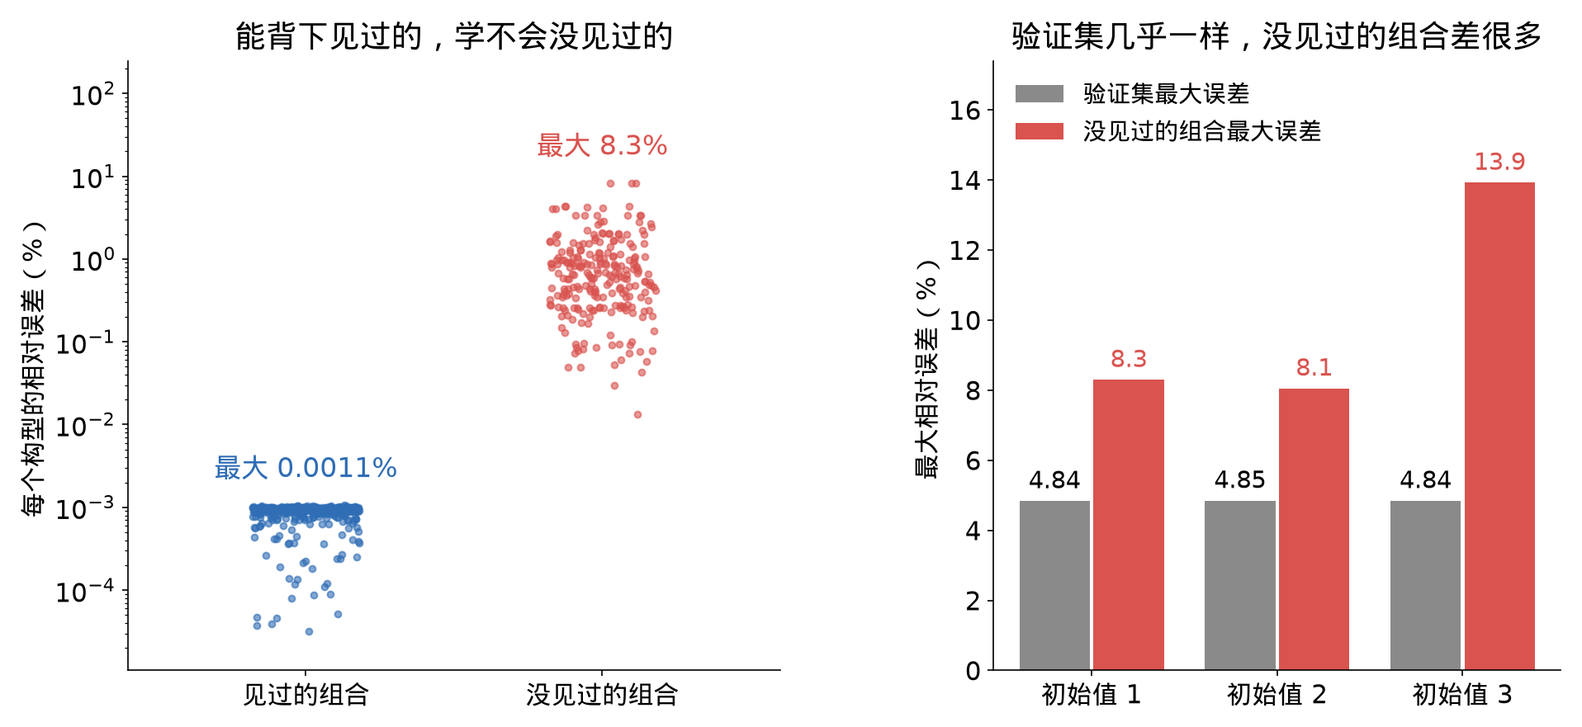
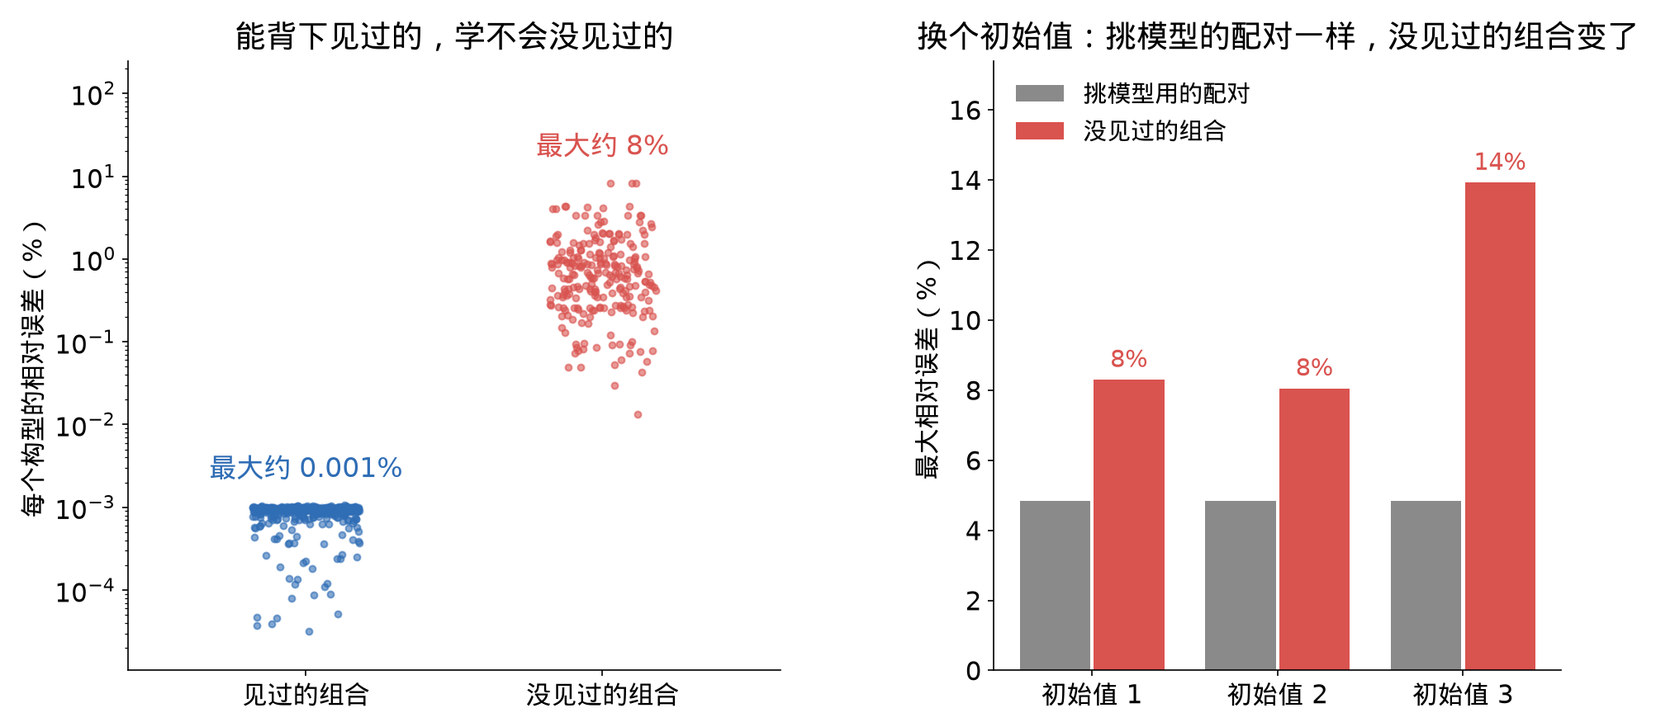
preview/meeting: v2 round 2 (user decisions; computation details trimmed; read-only preview; live week3_4.html and notes unchanged; from meeting-draft 75777ad)

diff --git a/preview/meeting/week3_4.html b/preview/meeting/week3_4.html
@@ -241,7 +241,7 @@ html.annot-on #annot-capture { display: block; }
 }
 </style>
 <script>window.NIPC_SNAPSHOT = {"format":"nipc-notes","version":1,"page":"week3_4.html","path":"/Neural-IPC-web/week3_4.html","colWidth":920,"strokes":[],"tombstones":{}};</script>
-<script>window.NIPC_PAGE = "41b1b8290b05";</script>
+<script>window.NIPC_PAGE = "e5ca66c82fb4";</script>
 <script>window.MathJax = {tex: {inlineMath: [["\\(", "\\)"]], displayMath: [["\\[", "\\]"]]}, svg: {fontCache: "global"}};</script>
 <script src="https://cdn.jsdelivr.net/npm/mathjax@3.2.2/es5/tex-svg.js" async></script>
 <a class="skip" href="#content">跳转到正文</a><div id="progress" aria-hidden="true"></div>
@@ -279,7 +279,7 @@ html.annot-on #annot-capture { display: block; }
 <p>\(\Phi z\) 是粗模型给出的形状，\(\Psi w\) 是叠加在上面的局部变形，\(\Pi\) 是弹性能，\(\min_w\) 在不穿透的条件下取。意思是：粗状态固定后，物体自己找最省能量的凹法避开穿透，多出来的弹性能就是 \(U_c\)；接触力是它对位置的导数。</p>
 <figure style="margin:12px 0"><img src="assets/images/w34_fig01_collision_energy.png" width="2501" height="991" style="width:1060px;max-width:100%;height:auto" alt="左边是粗模型：形状由 \(\Phi z\) 给出、不会变，球和块碰上以后直接互相穿进去，红色就是穿进去的那块。右边是真实物体：块在接触处局部凹下去（凹陷 \(\Psi w\)）把球让开，灰色虚线是原来的表面，蓝色凹陷里存的弹性能就是要学的 \(U_c\)。" loading="lazy"><figcaption class="small">左边是粗模型：形状由 \(\Phi z\) 给出、不会变，球和块碰上以后直接互相穿进去，红色就是穿进去的那块。右边是真实物体：块在接触处局部凹下去（凹陷 \(\Psi w\)）把球让开，灰色虚线是原来的表面，蓝色凹陷里存的弹性能就是要学的 \(U_c\)。</figcaption></figure>
 <p>训练用的标准答案（标签）由 IPC（保证不穿透的接触算法）加精细有限元算出。</p>
-<figure style="margin:12px 0"><video controls muted playsinline preload="metadata" src="../../assets/videos/w3i_exp1_soft_soft_press.mp4" style="width:543px;max-width:100%;height:auto"></video><figcaption class="small">造一个标签的过程。画面是过接触中心的剖面，竖直方向放大 4 倍：橙色是软压头，蓝色是同样软的块，两者之间的红线是实际受到接触力的地方。两个物体都不固定，被一对大小相等、方向相反的力挤在一起，依次压到六个深度，每次停稳后读出两个物体加起来的弹性能；压得深时可以看到橙色压头的底部也被压平了。</figcaption></figure></section>
+<figure style="margin:12px 0"><video controls muted playsinline preload="metadata" src="../../assets/videos/w3i_exp1_soft_soft_press.mp4" style="width:543px;max-width:100%;height:auto"></video><figcaption class="small">造一个标签的过程：过接触中心的剖面，橙色软压头压同样软的蓝色块，红线是受到接触力的地方。每压到一个深度、停稳后，读出两个物体加起来的弹性能。压得深时橙色压头的底部也被压平了。</figcaption></figure></section>
 <section id="w2"><h2>hydro++ 为什么不够</h2>
 <h3 id="w2-1">hydro++ 是什么</h3>
 
@@ -329,10 +329,6 @@ html.annot-on #annot-capture { display: block; }
 <p>① 与 ② 各存 \(\tfrac12F_1\delta\)，③ 里两个平底各存 \(\tfrac12F\delta\)，压深相同：</p>
 <p>\[c=\frac{U_③}{U_①+U_②}=\frac{2\cdot\tfrac12F\delta}{2\cdot\tfrac12F_1\delta}=\frac{F}{F_1}=\frac{2E^*a\delta\big/\big(1+\frac{2a}{\pi r}\big)}{2E^*a\delta}=\frac{1}{1+\dfrac{2a}{\pi r}}.\]</p>
 </li>
-<li>
-<p>中心距为半径 4 倍，\(r=4a\)：</p>
-<p>\[c=\frac{1}{1+\dfrac{2}{4\pi}}=0.863.\]</p>
-</li>
 </ol></details>
 <details><summary>推导：误差下界</summary><ol>
 <li>
@@ -356,19 +352,15 @@ html.annot-on #annot-capture { display: block; }
 <p>移项：</p>
 <p>\[1-c\le\varepsilon\,(1+c)\ \Longrightarrow\ \varepsilon\ge\frac{1-c}{1+c}.\]</p>
 </li>
-<li>
-<p>代入边界元的 \(c=0.861\)：</p>
-<p>\[\varepsilon\ge\frac{1-0.861}{1+0.861}=\frac{0.139}{1.861}=7.49\%.\]</p>
-</li>
 </ol></details>
 <h3 id="w2-3">做不到的第二件事：没见过的物体组合</h3>
 
-<figure style="margin:12px 0"><img src="assets/images/w34_meeting_15_memorize.png" width="1916" height="881" style="width:913px;max-width:100%;height:auto" alt="左边是按验证集选出的那组场在每个构型上的相对误差，纵轴是对数：蓝点是拟合时见过的配对，最大 0.0011%；红点是没见过的组合，最大 8.3%，大了三个多数量级。右边是三个初始值各自选出的模型：灰柱是验证集上的最大误差，三根几乎一样高；红柱是没见过的组合的最大误差，从 8.1% 到 13.9% 不等。验证集分不出这三组场，没见过的组合却差很多，说明数据没把这些组合的能量定住。" loading="lazy"><figcaption class="small">左边是按验证集选出的那组场在每个构型上的相对误差，纵轴是对数：蓝点是拟合时见过的配对，最大 0.0011%；红点是没见过的组合，最大 8.3%，大了三个多数量级。右边是三个初始值各自选出的模型：灰柱是验证集上的最大误差，三根几乎一样高；红柱是没见过的组合的最大误差，从 8.1% 到 13.9% 不等。验证集分不出这三组场，没见过的组合却差很多，说明数据没把这些组合的能量定住。</figcaption></figure>
-<p>15 个形状、硬度各不相同的物体，两两配对互压，答案用解析公式算。拿其中 68 对拟合每个物体的场、10 对用来挑模型（验证集），再测另外 24 对：测试里每个物体都见过，只是这种组合没见过。</p>
-<figure style="margin:12px 0"><img src="assets/images/w34_meeting_08_pair_table.png" width="1000" height="940" style="width:447px;max-width:100%;height:auto" alt="每个格子是一对物体，行是压头，列是块；每种形状里的三个格子从左到右（从上到下）是杨氏模量 1、2、4 × 10⁵。一对只算一次，所以只画右上半，平面那一行空着是因为平面不和平面配对。绿格是拟合用的 68 对，灰格是挑模型用的 10 对，红格是测试的 24 对。每个红格里的两个物体都在别的绿格里出现过：测试只考新的组合，不考新的物体。幂律是剖面高度按到中心距离的某次方升高的凸起。" loading="lazy"><figcaption class="small">每个格子是一对物体，行是压头，列是块；每种形状里的三个格子从左到右（从上到下）是杨氏模量 1、2、4 × 10⁵。一对只算一次，所以只画右上半，平面那一行空着是因为平面不和平面配对。绿格是拟合用的 68 对，灰格是挑模型用的 10 对，红格是测试的 24 对。每个红格里的两个物体都在别的绿格里出现过：测试只考新的组合，不考新的物体。幂律是剖面高度按到中心距离的某次方升高的凸起。</figcaption></figure>
+<figure style="margin:12px 0"><img src="assets/images/w34_meeting_15_memorize.png" width="2005" height="881" style="width:956px;max-width:100%;height:auto" alt="左边是每个构型的相对误差，纵轴是对数：蓝点是见过的组合，最大约 0.001%；红点是没见过的组合，最大约 8%，大了三个多数量级。右边是换三个不同的初始值各拟合一次：灰柱（挑模型用的配对）三次几乎一样，红柱（没见过的组合）却从 8% 变到 14%。换个初始值结果就变，说明数据定不住这些组合的能量。" loading="lazy"><figcaption class="small">左边是每个构型的相对误差，纵轴是对数：蓝点是见过的组合，最大约 0.001%；红点是没见过的组合，最大约 8%，大了三个多数量级。右边是换三个不同的初始值各拟合一次：灰柱（挑模型用的配对）三次几乎一样，红柱（没见过的组合）却从 8% 变到 14%。换个初始值结果就变，说明数据定不住这些组合的能量。</figcaption></figure>
+<p>15 个形状、硬度各不相同的物体，两两配对互压，答案用解析公式算。拿其中 68 对拟合每个物体的场、10 对用来挑模型，再测另外 24 对：测试里每个物体都见过，只是这种组合没见过。</p>
+<figure style="margin:12px 0"><img src="assets/images/w34_meeting_08_pair_table.png" width="1000" height="940" style="width:447px;max-width:100%;height:auto" alt="每个格子是一对物体，行是压头，列是块；每种形状里的三个格子从左到右（从上到下）是杨氏模量 1、2、4 × 10⁵。绿格是拟合用的 68 对，灰格是挑模型用的 10 对，红格是测试的 24 对。每个红格里的两个物体都在别的绿格里出现过：测试只考新的组合，不考新的物体。幂律是剖面高度按到中心距离的某次方升高的凸起。" loading="lazy"><figcaption class="small">每个格子是一对物体，行是压头，列是块；每种形状里的三个格子从左到右（从上到下）是杨氏模量 1、2、4 × 10⁵。绿格是拟合用的 68 对，灰格是挑模型用的 10 对，红格是测试的 24 对。每个红格里的两个物体都在别的绿格里出现过：测试只考新的组合，不考新的物体。幂律是剖面高度按到中心距离的某次方升高的凸起。</figcaption></figure>
 <ul>
-<li>见过的组合：误差 0.0011%，几乎完全背下来了。</li>
-<li>没见过的组合：最大误差 8.3%。拟合场是一个有很多局部最优的问题，我从 3 个初始值各拟合 200 万步（未完全收敛），按验证集选模型。三个初始值在验证集上的最大误差几乎一样（4.84%、4.85%、4.84%），没见过的组合却分别是 8.3%、8.1%、13.9%：拟合数据定不住这些组合的能量。</li>
+<li>见过的组合：误差约 0.001%，几乎完全背下来了。</li>
+<li>没见过的组合：最大误差 8%–14%，而且换个初始值重新拟合，这个数就变，说明数据定不住这些组合的能量。</li>
 </ul>
 <p>原因在第 3.1 节：真实答案由「两表面之间的缝隙」和「两侧合成的硬度」决定，这两个量都要两个物体凑在一起才有。hydro++ 每个物体各管各的场，拼不出它们，只能背。</p>
 <h3 id="w2-4">由此得到的设计要求</h3>
@@ -421,24 +413,24 @@ html.annot-on #annot-capture { display: block; }
 <p>三维里每一点的下沉都受所有点的压力影响，直接解很麻烦。Popov 的降维法证明，对轴对称的缝隙 \(h(r)\)（绕接触中心转一圈形状不变，只随离中心的距离 \(r\) 变），先换算出一条一维的<strong>等效轮廓</strong></p>
 <p>\[\color{#c0392b}{g(x)=|x|\int_0^{|x|}\frac{h&#x27;(r)}{\sqrt{x^2-r^2}}\,dr,}\]</p>
 <p>再用形状为 \(g\) 的刚体去压一排互不相干的弹簧（每单位长度刚度 \(E^*\)），得到的力和能量与三维精确解完全相同：</p>
-<p>\[\color{#c0392b}{\begin{aligned}&amp;g(a)=d,\qquad F=2E^*\int_0^a\big(d-g\big)dx,\\&amp;U_0=E^*\int_0^a\big(d-g\big)^2dx.\end{aligned}}\]</p>
-<p>\(d\) 是压深，\(a\) 是接触边缘（压缩量为零的那根弹簧）。</p>
-<p>这个形式有两条自带的性质：<strong>力严格等于能量的导数</strong>；<strong>越压越硬</strong>，刚度 \(dF/dd=2aE^*\) 随接触变宽而变大。代入球的缝隙 \(h=r^2/(2R)\)，得到的正是 Hertz：\(U_H=\tfrac{8}{15}E^*\sqrt R\,d^{5/2}\)。</p>
+<p>\[\color{#c0392b}{\begin{aligned}&amp;g(a)=\delta,\qquad F=2E^*\int_0^a\big(\delta-g\big)dx,\\&amp;U_0=E^*\int_0^a\big(\delta-g\big)^2dx.\end{aligned}}\]</p>
+<p>\(\delta\) 是压深，\(a\) 是接触边缘（压缩量为零的那根弹簧）。</p>
+<p>这个形式有两条自带的性质：<strong>力严格等于能量的导数</strong>；<strong>越压越硬</strong>，刚度 \(dF/d\delta=2aE^*\) 随接触变宽而变大。代入球的缝隙 \(h=r^2/(2R)\)，得到的正是 Hertz：\(U_H=\tfrac{8}{15}E^*\sqrt R\,\delta^{5/2}\)。</p>
 <details><summary>推导：降维法</summary><p><strong>第一步：平底的解。</strong> 半径 \(\tilde a\) 的平底压入 \(\delta\)，力和平底外 \(r\) 处的下沉分别为</p>
 <p>\[F_{\text{平底}}=2E^*\tilde a\,\delta,\qquad w(r)=\frac{2\delta}{\pi}\arcsin\frac{\tilde a}{r}\quad(r&gt;\tilde a).\]</p>
-<p><strong>第二步：把一般压入拆成一串平底。</strong> 接触半径为 \(\tilde a\) 时再多压 \(d\tilde d\)，相当于半径 \(\tilde a\) 的平底多压 \(d\tilde d\)。记压深与接触半径的关系为 \(\tilde d=g(\tilde a)\)，则 \(d\tilde d=g&#x27;(\tilde a)\,d\tilde a\)，最后 \(d=g(a)\)。各步的力相加：</p>
+<p><strong>第二步：把一般压入拆成一串平底。</strong> 接触半径为 \(\tilde a\) 时再多压 \(d\tilde\delta\)，相当于半径 \(\tilde a\) 的平底多压 \(d\tilde\delta\)。记压深与接触半径的关系为 \(\tilde\delta=g(\tilde a)\)，则 \(d\tilde\delta=g&#x27;(\tilde a)\,d\tilde a\)，最后 \(\delta=g(a)\)。各步的力相加：</p>
 <p>\[F=\int_0^a2E^*\tilde a\,g&#x27;(\tilde a)\,d\tilde a.\]</p>
 <p>分部积分：</p>
 <p>\[F=2E^*\Big[\tilde a\,g(\tilde a)\Big]_0^a-2E^*\int_0^ag(\tilde a)\,d\tilde a.\]</p>
-<p>代入 \(g(a)=d\)，上下限处的项为 \(a\,d-0\)：</p>
-<p>\[F=2E^*a\,d-2E^*\int_0^ag(\tilde a)\,d\tilde a.\]</p>
-<p>把 \(a\,d\) 写成 \(\int_0^ad\,dx\)，合并：</p>
-<p>\[F=2E^*\int_0^a\big(d-g(x)\big)dx.\]</p>
-<p><strong>第三步：用边缘的贴合条件定出 \(g\)。</strong> 各步在 \(r=a\) 处的下沉相加，应等于那里要让出的量 \(d-h(a)\)：</p>
-<p>\[d-h(a)=\frac2\pi\int_0^a\arcsin\frac{\tilde a}{a}\;g&#x27;(\tilde a)\,d\tilde a.\]</p>
+<p>代入 \(g(a)=\delta\)，上下限处的项为 \(a\,\delta-0\)：</p>
+<p>\[F=2E^*a\,\delta-2E^*\int_0^ag(\tilde a)\,d\tilde a.\]</p>
+<p>把 \(a\,\delta\) 写成 \(\int_0^a\delta\,dx\)，合并：</p>
+<p>\[F=2E^*\int_0^a\big(\delta-g(x)\big)dx.\]</p>
+<p><strong>第三步：用边缘的贴合条件定出 \(g\)。</strong> 各步在 \(r=a\) 处的下沉相加，应等于那里要让出的量 \(\delta-h(a)\)：</p>
+<p>\[\delta-h(a)=\frac2\pi\int_0^a\arcsin\frac{\tilde a}{a}\;g&#x27;(\tilde a)\,d\tilde a.\]</p>
 <p>分部积分，\(\dfrac{d}{d\tilde a}\arcsin\dfrac{\tilde a}{a}=\dfrac{1}{\sqrt{a^2-\tilde a^2}}\)：</p>
 <p>\[\frac2\pi\int_0^a\arcsin\frac{\tilde a}{a}\,g&#x27;(\tilde a)\,d\tilde a=\frac2\pi\Big[\arcsin\frac{\tilde a}{a}\,g(\tilde a)\Big]_0^a-\frac2\pi\int_0^a\frac{g(\tilde a)}{\sqrt{a^2-\tilde a^2}}\,d\tilde a.\]</p>
-<p>边界项：\(\tilde a=a\) 时 \(\arcsin1=\pi/2\)、\(g(a)=d\)，\(\tilde a=0\) 时为 0，所以边界项等于 \(d\)。代回，两边消去 \(d\)：</p>
+<p>边界项：\(\tilde a=a\) 时 \(\arcsin1=\pi/2\)、\(g(a)=\delta\)，\(\tilde a=0\) 时为 0，所以边界项等于 \(\delta\)。代回，两边消去 \(\delta\)：</p>
 <p>\[h(a)=\frac2\pi\int_0^a\frac{g(\tilde a)}{\sqrt{a^2-\tilde a^2}}\,d\tilde a.\]</p>
 <p>这对每个 \(a\) 都成立，是关于 \(g\) 的 Abel 积分方程。下面解出 \(g\)。</p>
 <p><strong>第三步续：解 Abel 方程。</strong> 两边乘 \(\dfrac{r}{\sqrt{x^2-r^2}}\)（把上式的 \(a\) 改记为 \(r\)），对 \(r\) 从 0 积到 \(x\)：</p>
@@ -456,30 +448,30 @@ html.annot-on #annot-capture { display: block; }
 <p>两边对 \(x\) 求导，右边上限处 \(\sqrt{x^2-x^2}=0\)：</p>
 <p>\[g(x)=\int_0^xh&#x27;(r)\,\frac{x}{\sqrt{x^2-r^2}}\,dr=x\int_0^x\frac{h&#x27;(r)}{\sqrt{x^2-r^2}}\,dr.\]</p>
 <p>\(g\) 关于 \(x\) 对称，写成 \(|x|\) 就是上面 \(g(x)\) 的定义式。</p>
-<p><strong>第四步：能量。</strong> 对 \(U_0=E^*\int_0^a(d-g)^2dx\) 求导，上限 \(a\) 也随 \(d\) 变：</p>
-<p>\[\frac{dU_0}{dd}=E^*\big(d-g(a)\big)^2\frac{da}{dd}+E^*\int_0^a2\big(d-g(x)\big)dx.\]</p>
-<p>上限处 \(d-g(a)=0\)，边界项消失：</p>
-<p>\[\frac{dU_0}{dd}=2E^*\int_0^a\big(d-g(x)\big)dx=F.\]</p>
-<p>又 \(d=0\) 时 \(U_0=0\)，所以它就是弹性能。</p></details>
-<details><summary>推导：越压越硬</summary><p>对 \(F=2E^*\int_0^a(d-g)\,dx\) 求导，上限 \(a\) 随 \(d\) 变：</p>
-<p>\[\frac{dF}{dd}=2E^*\big(d-g(a)\big)\frac{da}{dd}+2E^*\int_0^a1\,dx.\]</p>
-<p>因为 \(d=g(a)\)，第一项为零：</p>
-<p>\[\frac{dF}{dd}=2aE^*.\]</p>
-<p>直观地说：再压一点，接触区里每根弹簧都多压一点，多出来的力是 \(E^*\cdot2a\cdot\Delta d\)。</p></details>
+<p><strong>第四步：能量。</strong> 对 \(U_0=E^*\int_0^a(\delta-g)^2dx\) 求导，上限 \(a\) 也随 \(\delta\) 变：</p>
+<p>\[\frac{dU_0}{d\delta}=E^*\big(\delta-g(a)\big)^2\frac{da}{d\delta}+E^*\int_0^a2\big(\delta-g(x)\big)dx.\]</p>
+<p>上限处 \(\delta-g(a)=0\)，边界项消失：</p>
+<p>\[\frac{dU_0}{d\delta}=2E^*\int_0^a\big(\delta-g(x)\big)dx=F.\]</p>
+<p>又 \(\delta=0\) 时 \(U_0=0\)，所以它就是弹性能。</p></details>
+<details><summary>推导：越压越硬</summary><p>对 \(F=2E^*\int_0^a(\delta-g)\,dx\) 求导，上限 \(a\) 随 \(\delta\) 变：</p>
+<p>\[\frac{dF}{d\delta}=2E^*\big(\delta-g(a)\big)\frac{da}{d\delta}+2E^*\int_0^a1\,dx.\]</p>
+<p>因为 \(\delta=g(a)\)，第一项为零：</p>
+<p>\[\frac{dF}{d\delta}=2aE^*.\]</p>
+<p>直观地说：再压一点，接触区里每根弹簧都多压一点，多出来的力是 \(E^*\cdot2a\cdot\Delta\delta\)。</p></details>
 <details><summary>推导：球 → Hertz</summary><p><strong>缝隙。</strong> 半径 \(R_i\) 的球，离接触中心水平距离 \(r\) 处比最低点高 \(f_i\)。由勾股定理</p>
 <p>\[r^2+(R_i-f_i)^2=R_i^2\ \Longrightarrow\ r^2=2R_if_i-f_i^2.\]</p>
 <p>略去高阶小量 \(f_i^2\)，得 \(f_i\approx r^2/(2R_i)\)。两侧相加：</p>
 <p>\[h=\frac{r^2}{2R_A}+\frac{r^2}{2R_B}=\frac{r^2}{2R},\qquad\frac1R=\frac1{R_A}+\frac1{R_B}.\]</p>
 <p><strong>等效轮廓。</strong> \(h&#x27;(r)=r/R\)，代入：</p>
 <p>\[g(x)=\frac{|x|}{R}\int_0^{|x|}\frac{r}{\sqrt{x^2-r^2}}\,dr=\frac{|x|}{R}\Big[-\sqrt{x^2-r^2}\Big]_0^{|x|}=\frac{|x|}{R}\cdot|x|=\frac{x^2}{R}.\]</p>
-<p><strong>接触半径。</strong> 由 \(g(a)=d\)：</p>
-<p>\[\frac{a^2}{R}=d\ \Longrightarrow\ a=\sqrt{Rd}.\]</p>
+<p><strong>接触半径。</strong> 由 \(g(a)=\delta\)：</p>
+<p>\[\frac{a^2}{R}=\delta\ \Longrightarrow\ a=\sqrt{R\delta}.\]</p>
 <p><strong>力。</strong></p>
-<p>\[F=2E^*\int_0^a\Big(d-\frac{x^2}{R}\Big)dx=2E^*\Big(ad-\frac{a^3}{3R}\Big).\]</p>
-<p>代入 \(a=\sqrt{Rd}\)，\(a^3/R=\sqrt R\,d^{3/2}\)、\(ad=\sqrt R\,d^{3/2}\)：</p>
-<p>\[F=2E^*\Big(\sqrt R\,d^{3/2}-\frac13\sqrt R\,d^{3/2}\Big)=\frac43E^*\sqrt R\,d^{3/2}.\]</p>
+<p>\[F=2E^*\int_0^a\Big(\delta-\frac{x^2}{R}\Big)dx=2E^*\Big(a\delta-\frac{a^3}{3R}\Big).\]</p>
+<p>代入 \(a=\sqrt{R\delta}\)，\(a^3/R=\sqrt R\,\delta^{3/2}\)、\(a\delta=\sqrt R\,\delta^{3/2}\)：</p>
+<p>\[F=2E^*\Big(\sqrt R\,\delta^{3/2}-\frac13\sqrt R\,\delta^{3/2}\Big)=\frac43E^*\sqrt R\,\delta^{3/2}.\]</p>
 <p><strong>能量。</strong> 力对压深积分（\(s\) 是压入过程中的压深）：</p>
-<p>\[U_H=\int_0^d\frac43E^*\sqrt R\,s^{3/2}\,ds=\frac43E^*\sqrt R\cdot\frac25d^{5/2}=\frac{8}{15}E^*\sqrt R\,d^{5/2}.\]</p></details>
+<p>\[U_H=\int_0^\delta\frac43E^*\sqrt R\,s^{3/2}\,ds=\frac43E^*\sqrt R\cdot\frac25\delta^{5/2}=\frac{8}{15}E^*\sqrt R\,\delta^{5/2}.\]</p></details>
 <h3 id="w3-3">不轴对称时：椭圆接触</h3>
 
 <p>如果接触点上两个方向弯曲程度不同（比如球压在游泳圈内圈：沿管子方向凸，沿圆环方向凹），缝隙就不是轴对称的，接触区是椭圆，降维法不能直接用。</p>
@@ -506,13 +498,13 @@ html.annot-on #annot-capture { display: block; }
 </tr>
 </tbody>
 </table></div>
-<figure style="margin:12px 0"><img src="assets/images/w34_meeting_12_soft_vs_rigid_cap.png" width="2294" height="885" style="width:1089px;max-width:100%;height:auto" alt="两幅都是过接触中心的剖面，竖直方向放大 4 倍，红线是受接触力的地方。左边压头杨氏模量 1e8、块 1e5：压头几乎刚，凹下去的是块，压头底部仍是圆弧。右边压头 1e5、块 1e6：压头比块软，压头底部被压平，块几乎不动。灰色是几乎刚的压头，浅橙是软压头，浅蓝是 1e5 的块，深蓝是 1e6 的块。" loading="lazy"><figcaption class="small">两幅都是过接触中心的剖面，竖直方向放大 4 倍，红线是受接触力的地方。左边压头杨氏模量 1e8、块 1e5：压头几乎刚，凹下去的是块，压头底部仍是圆弧。右边压头 1e5、块 1e6：压头比块软，压头底部被压平，块几乎不动。灰色是几乎刚的压头，浅橙是软压头，浅蓝是 1e5 的块，深蓝是 1e6 的块。</figcaption></figure>
+<figure style="margin:12px 0"><img src="assets/images/w34_meeting_12_soft_vs_rigid_cap.png" width="2294" height="885" style="width:1089px;max-width:100%;height:auto" alt="两幅都是过接触中心的剖面，红线是受接触力的地方。左边压头（灰）几乎刚、块（浅蓝）软：凹下去的是块，压头底部仍是圆弧。右边压头（浅橙）软、块（深蓝）硬：压头底部被压平，块几乎不动。" loading="lazy"><figcaption class="small">两幅都是过接触中心的剖面，红线是受接触力的地方。左边压头（灰）几乎刚、块（浅蓝）软：凹下去的是块，压头底部仍是圆弧。右边压头（浅橙）软、块（深蓝）硬：压头底部被压平，块几乎不动。</figcaption></figure>
 <p>压头一软，被压扁的变成本来就弯的那一侧，公式的「变形小」前提就不太成立，偏了 1%–2%。而合成硬度相同时，软的是弯的一侧还是平的一侧，结果不一样，所以网络要分别知道两侧各自的软硬和弯曲。</p>
-<figure style="margin:12px 0"><img src="assets/images/w34_meeting_09_arch_v1.png" width="1975" height="899" style="width:923px;max-width:100%;height:auto" alt="现在的模型怎么算能量。左上，缝隙 \(h\) 和合成硬度 \(E^*\) 经降维法给出等效轮廓 \(g\)，椭圆时乘扁度因子。左下，两侧各自的曲率占比、软度占比、泊松比、到边缘的距离，加上位置和扁度，送进 2 层、每层 16 个神经元的小网络，不含压深。网络给轮廓每个位置的斜率乘一个正数，得到修正轮廓 \(G\)，压一排弹簧得到这一处的能量。右下的红色双箭头表示几处接触之间按 1/距离 互相把表面带下去；几处加起来是总能量，力是总能量对位置的导数。" loading="lazy"><figcaption class="small">现在的模型怎么算能量。左上，缝隙 \(h\) 和合成硬度 \(E^*\) 经降维法给出等效轮廓 \(g\)，椭圆时乘扁度因子。左下，两侧各自的曲率占比、软度占比、泊松比、到边缘的距离，加上位置和扁度，送进 2 层、每层 16 个神经元的小网络，不含压深。网络给轮廓每个位置的斜率乘一个正数，得到修正轮廓 \(G\)，压一排弹簧得到这一处的能量。右下的红色双箭头表示几处接触之间按 1/距离 互相把表面带下去；几处加起来是总能量，力是总能量对位置的导数。</figcaption></figure>
+<figure style="margin:12px 0"><img src="assets/images/w34_meeting_09_arch_v1.png" width="1975" height="899" style="width:923px;max-width:100%;height:auto" alt="现在的模型怎么算能量。左上，缝隙 \(h\) 和合成硬度 \(E^*\) 经降维法给出等效轮廓 \(g\)，椭圆时乘扁度因子。左下，两侧各自的曲率占比、软度占比、泊松比、到边缘的距离，加上位置和扁度，送进小网络，不含压深。网络给轮廓每个位置的斜率乘一个正数，得到修正轮廓 \(G\)，压一排弹簧得到这一处的能量。右下的红色双箭头表示几处接触之间按 1/距离 互相把表面带下去；几处加起来是总能量，力是总能量对位置的导数。" loading="lazy"><figcaption class="small">现在的模型怎么算能量。左上，缝隙 \(h\) 和合成硬度 \(E^*\) 经降维法给出等效轮廓 \(g\)，椭圆时乘扁度因子。左下，两侧各自的曲率占比、软度占比、泊松比、到边缘的距离，加上位置和扁度，送进小网络，不含压深。网络给轮廓每个位置的斜率乘一个正数，得到修正轮廓 \(G\)，压一排弹簧得到这一处的能量。右下的红色双箭头表示几处接触之间按 1/距离 互相把表面带下去；几处加起来是总能量，力是总能量对位置的导数。</figcaption></figure>
 <p><strong>网络的做法：</strong> 在等效轮廓 \(g\) 的每个位置上，给它的斜率乘一个接近 1 的正数。比如压头软、自己会被压扁，网络就把轮廓外圈调陡一点，接触区变窄，能量随之降下来。</p>
 <figure style="margin:12px 0"><img src="assets/images/w34_meeting_01_profile_correction.png" width="1113" height="965" style="width:484px;max-width:100%;height:auto" alt="降维法那排弹簧上的两种轮廓。黑色虚线是公式给的 \(g=x^2/R\)，接触边缘在灰色的 \(a\)；灰色实心压头是网络把外圈斜率调大后的轮廓，外圈更陡，同样的压深下接触边缘收到红色的 \(a&#x27;\)。蓝色是被压到的弹簧，灰色是没碰到的；轮廓变陡后被压到的弹簧变少、每根压得更浅，能量变小。修正的幅度为了看清放大画了。" loading="lazy"><figcaption class="small">降维法那排弹簧上的两种轮廓。黑色虚线是公式给的 \(g=x^2/R\)，接触边缘在灰色的 \(a\)；灰色实心压头是网络把外圈斜率调大后的轮廓，外圈更陡，同样的压深下接触边缘收到红色的 \(a&#x27;\)。蓝色是被压到的弹簧，灰色是没碰到的；轮廓变陡后被压到的弹簧变少、每根压得更浅，能量变小。修正的幅度为了看清放大画了。</figcaption></figure>
 <ul>
-<li><strong>输入：</strong> 轮廓上的位置；椭圆有多扁；两侧各自的泊松比；弯的是哪一侧（两侧各占合起来的曲率的比例）；软的是哪一侧（两侧各占合起来的软度 \(1/E^*\) 的比例）。不输入压深。</li>
+<li><strong>输入：</strong> 轮廓上的位置；椭圆有多扁；两侧各自的泊松比；弯的是哪一侧（两侧各占合起来的曲率的比例）；软的是哪一侧（两侧各占合起来的软度 \(1/E^*\) 的比例）；两侧各自到物体边缘的距离（物体看成无限大时这一项为零）。不输入压深。</li>
 <li><strong>规模：</strong> 2 层、每层 16 个神经元，共 497 个参数。</li>
 </ul>
 <p><strong>为什么改轮廓，而不是直接给能量乘系数：</strong></p>
@@ -522,9 +514,9 @@ html.annot-on #annot-capture { display: block; }
 <li>网络只改轮廓的形状，不看压深；压深变化时能量怎么变，仍由弹簧公式决定。所以压得比训练时更深，网络也不需要去猜，不会出怪结果。</li>
 </ul>
 <p><strong>接触之间的相互影响（第二条要求）：</strong> 每处接触的压深 = 自己的力压出来的 + 其他接触的力把表面带下去的：</p>
-<p>\[\color{#c0392b}{\delta_i=\delta_{e,i}(F_i)+\sum_{j\ne i}\frac{F_j}{\pi E&#x27;\,r_{ij}},}\]</p>
+<p>\[\color{#c0392b}{\delta_i=\delta_{e,i}(F_i)+\sum_{j\ne i}\frac{F_j}{\pi E^*\,r_{ij}},}\]</p>
 <p>\(r_{ij}\) 是两处接触的中心距。这一项不经过网络，就是第 2.2 节推 \(c\) 用的同一个式子。hydro++ 做不到的「一起压要打折」，在这里是结构自带的。</p>
-<figure style="margin:12px 0"><img src="assets/images/w34_core_w34_5.2_d.png" width="1330" height="717" style="width:572px;max-width:100%;height:auto" alt="剖面上两处接触：左边 \(j\) 区压得深，右边 \(i\) 区压得浅，两处中心相距 \(r_{ij}\)。浅灰水平虚线是原来的表面；深灰虚线是只有 \(j\) 区的力 \(F_j\) 时表面的下沉 \(u_j(r)=F_j/(\pi E&#x27;r)\)，随距离变小，到 \(i\) 区还剩绿色那一段 \(u_j(r_{ij})\)。\(i\) 区的总压深 \(\delta_i\) 分成两段：绿色是被 \(j\) 带下去的，蓝色是 \(i\) 区自己的力 \(F_i\) 压出来的 \(\delta_{e,i}(F_i)\)。" loading="lazy"><figcaption class="small">剖面上两处接触：左边 \(j\) 区压得深，右边 \(i\) 区压得浅，两处中心相距 \(r_{ij}\)。浅灰水平虚线是原来的表面；深灰虚线是只有 \(j\) 区的力 \(F_j\) 时表面的下沉 \(u_j(r)=F_j/(\pi E&#x27;r)\)，随距离变小，到 \(i\) 区还剩绿色那一段 \(u_j(r_{ij})\)。\(i\) 区的总压深 \(\delta_i\) 分成两段：绿色是被 \(j\) 带下去的，蓝色是 \(i\) 区自己的力 \(F_i\) 压出来的 \(\delta_{e,i}(F_i)\)。</figcaption></figure>
+<figure style="margin:12px 0"><img src="assets/images/w34_core_w34_5.2_d.png" width="1330" height="717" style="width:572px;max-width:100%;height:auto" alt="剖面上两处接触：左边 \(j\) 区压得深，右边 \(i\) 区压得浅，两处中心相距 \(r_{ij}\)。浅灰水平虚线是原来的表面；深灰虚线是只有 \(j\) 区的力 \(F_j\) 时表面的下沉 \(u_j(r)=F_j/(\pi E^*r)\)，随距离变小，到 \(i\) 区还剩绿色那一段 \(u_j(r_{ij})\)。\(i\) 区的总压深 \(\delta_i\) 分成两段：绿色是被 \(j\) 带下去的，蓝色是 \(i\) 区自己的力 \(F_i\) 压出来的 \(\delta_{e,i}(F_i)\)。" loading="lazy"><figcaption class="small">剖面上两处接触：左边 \(j\) 区压得深，右边 \(i\) 区压得浅，两处中心相距 \(r_{ij}\)。浅灰水平虚线是原来的表面；深灰虚线是只有 \(j\) 区的力 \(F_j\) 时表面的下沉 \(u_j(r)=F_j/(\pi E^*r)\)，随距离变小，到 \(i\) 区还剩绿色那一段 \(u_j(r_{ij})\)。\(i\) 区的总压深 \(\delta_i\) 分成两段：绿色是被 \(j\) 带下去的，蓝色是 \(i\) 区自己的力 \(F_i\) 压出来的 \(\delta_{e,i}(F_i)\)。</figcaption></figure>
 <h3 id="w3-5">结果</h3>
 
 <p>刚球压平块、软硬不同的压头压块、刚球压曲面块三类，共 68 个标签。检验方法是<strong>留一法</strong>：每次拿掉一个构型，用其余的训练，再预测拿掉的那个。为了看网络到底多学到了什么，同样的检验下也比了只用骨架、以及骨架乘一个 2 参数简单公式：</p>
@@ -615,9 +607,9 @@ html.annot-on #annot-capture { display: block; }
 <p><strong>① 薄层（软垫、涂层、手指皮肤）。</strong> 骨架里没有层厚这个量。刚球压一层很薄的软层时，层下面就是硬底座，材料没处可让，比压一大块软材料硬得多；骨架照样按无限厚算，只算出真实能量的一到两成。</p>
 <figure style="margin:12px 0"><img src="assets/images/w34_meeting_11_thin_layer_section.png" width="1930" height="885" style="width:916px;max-width:100%;height:auto" alt="同一个刚球、同样的压深。左边压的是一大块软材料，接触区下面还有很深的软材料。右边压的是放在硬底座上的一层薄软层，层厚 \(t\)，层下面就是硬底座，材料没处可让，所以比左边硬得多。" loading="lazy"><figcaption class="small">同一个刚球、同样的压深。左边压的是一大块软材料，接触区下面还有很深的软材料。右边压的是放在硬底座上的一层薄软层，层厚 \(t\)，层下面就是硬底座，材料没处可让，所以比左边硬得多。</figcaption></figure>
 <p><strong>② 斜着压的平底。</strong> 骨架把接触压成左右对称的一维轮廓，只记得「最深处压了多深」，不知道哪一边深。结果有两个：一是少算了压头倾斜本身存下的能量（整片贴住时少约 14%）；二是往左倾、往右倾，骨架都按同样方式改变能量，能量在「不倾斜」处出现一个尖角，对倾角求导就冒出一个本不存在的转动力矩。</p>
-<figure style="margin:12px 0"><img src="assets/images/w34_meeting_03_tilt.png" width="1865" height="897" style="width:873px;max-width:100%;height:auto" alt="左边是斜着压的平底剖面，倾角放大画：右边压得深，左边压得浅，灰色虚线是原来的表面。右边固定平底中心的压深、只改倾角，纵轴是能量 ÷ 不倾斜时的能量。绿线是精确解，在 0° 处是光滑的抛物线，不倾斜时没有转动力矩；红色虚线是现在的骨架，往左倾、往右倾变化一样，在 0° 处是一个尖角，左右两边的斜率不相等，这就是那个本不存在的力矩。" loading="lazy"><figcaption class="small">左边是斜着压的平底剖面，倾角放大画：右边压得深，左边压得浅，灰色虚线是原来的表面。右边固定平底中心的压深、只改倾角，纵轴是能量 ÷ 不倾斜时的能量。绿线是精确解，在 0° 处是光滑的抛物线，不倾斜时没有转动力矩；红色虚线是现在的骨架，往左倾、往右倾变化一样，在 0° 处是一个尖角，左右两边的斜率不相等，这就是那个本不存在的力矩。</figcaption></figure>
+<figure style="margin:12px 0"><img src="assets/images/w34_meeting_03_tilt.png" width="1865" height="897" style="width:873px;max-width:100%;height:auto" alt="左边是斜着压的平底剖面，倾角放大画：右边压得深，左边压得浅，灰色虚线是原来的表面。右边固定平底中心的压深、只改倾角，纵轴是能量 ÷ 不倾斜时的能量。绿线是精确解，在 0° 处是光滑的抛物线，不倾斜时没有转动力矩；红色虚线是现在的骨架，往左倾、往右倾变化一样，在 0° 处是一个尖角，左右两边的斜率不相等，这就是那个本不存在的力矩。整片贴住的 3° 那一档，骨架实测比精确解少约 15%。" loading="lazy"><figcaption class="small">左边是斜着压的平底剖面，倾角放大画：右边压得深，左边压得浅，灰色虚线是原来的表面。右边固定平底中心的压深、只改倾角，纵轴是能量 ÷ 不倾斜时的能量。绿线是精确解，在 0° 处是光滑的抛物线，不倾斜时没有转动力矩；红色虚线是现在的骨架，往左倾、往右倾变化一样，在 0° 处是一个尖角，左右两边的斜率不相等，这就是那个本不存在的力矩。整片贴住的 3° 那一档，骨架实测比精确解少约 15%。</figcaption></figure>
 <p><strong>③ 两处接触连成一片。</strong> 分开时按「两处 + 相互影响」算，连成一片后只能按「一处」算。两种算法在连上的那一刻给出的能量不一样，差 4%–7%，能量就在这里跳一下，牛顿法可能因此不收敛。</p>
-<figure style="margin:12px 0"><img src="assets/images/w34_meeting_13_merge_steps.png" width="1390" height="1120" style="width:662px;max-width:100%;height:auto" alt="上排是两个平底从分开到贴在一起的三个瞬间，中心距分别是半径的 4 倍、2.5 倍和 2 倍，2 倍时两块贴成一片。下排是能量 ÷ 边界元精确解随中心距的变化，灰虚线 1 就是真实值：蓝线和绿线按「两处 + 相互影响」算，相互影响分别按点力和按分布压力算，分开时都贴着 1；贴成一片后只能按「一处」算（红点），能量在这一下分别跳了 6.8% 和 4.2%。" loading="lazy"><figcaption class="small">上排是两个平底从分开到贴在一起的三个瞬间，中心距分别是半径的 4 倍、2.5 倍和 2 倍，2 倍时两块贴成一片。下排是能量 ÷ 边界元精确解随中心距的变化，灰虚线 1 就是真实值：蓝线和绿线按「两处 + 相互影响」算，相互影响分别按点力和按分布压力算，分开时都贴着 1；贴成一片后只能按「一处」算（红点），能量在这一下分别跳了 6.8% 和 4.2%。</figcaption></figure>
+<figure style="margin:12px 0"><img src="assets/images/w34_meeting_13_merge_steps.png" width="1390" height="1120" style="width:662px;max-width:100%;height:auto" alt="上排是两个平底从分开到贴成一片的三个瞬间。下排是能量 ÷ 真实能量随中心距的变化，灰虚线 1 就是真实值：蓝线和绿线按「两处 + 相互影响」算（相互影响的两种算法），分开时都贴着 1；贴成一片后只能按「一处」算（红点），能量在这一下跳了 4%–7%。" loading="lazy"><figcaption class="small">上排是两个平底从分开到贴成一片的三个瞬间。下排是能量 ÷ 真实能量随中心距的变化，灰虚线 1 就是真实值：蓝线和绿线按「两处 + 相互影响」算（相互影响的两种算法），分开时都贴着 1；贴成一片后只能按「一处」算（红点），能量在这一下跳了 4%–7%。</figcaption></figure>
 <h3 id="w5-2">以薄层为例：两头精确，中间两个公式都不行</h3>
 
 <ul>
@@ -668,7 +660,7 @@ html.annot-on #annot-capture { display: block; }
 </tr>
 </tbody>
 </table></div>
-<figure style="margin:12px 0"><img src="assets/images/w34_meeting_04_layer_transition.png" width="1250" height="883" style="width:595px;max-width:100%;height:auto" alt="横轴是接触区大小 ÷ 层厚 \(\chi\)，往右层越薄；纵轴是能量 ÷ Hertz，两个轴都取对数。黑线是有限元算的真实能量（刚球压粘在刚性底座上的层，泊松比 0.3）。蓝色虚线是 Hertz，在左端很厚时和黑线重合；红色虚线是薄层公式，在右端很薄时和黑线重合。灰色一段（\(\chi\) 从 0.1 到 1）里两条虚线都离黑线很远。" loading="lazy"><figcaption class="small">横轴是接触区大小 ÷ 层厚 \(\chi\)，往右层越薄；纵轴是能量 ÷ Hertz，两个轴都取对数。黑线是有限元算的真实能量（刚球压粘在刚性底座上的层，泊松比 0.3）。蓝色虚线是 Hertz，在左端很厚时和黑线重合；红色虚线是薄层公式，在右端很薄时和黑线重合。灰色一段（\(\chi\) 从 0.1 到 1）里两条虚线都离黑线很远。</figcaption></figure>
+<figure style="margin:12px 0"><img src="assets/images/w34_meeting_04_layer_transition.png" width="1250" height="883" style="width:595px;max-width:100%;height:auto" alt="横轴是接触区大小 ÷ 层厚 \(\chi\)，往右层越薄；纵轴是能量 ÷ Hertz，两个轴都取对数。黑线是有限元算的真实能量（刚球压粘在刚性底座上的层）。蓝色虚线是 Hertz，在左端很厚时和黑线重合；红色虚线是薄层公式，在右端很薄时和黑线重合。灰色一段（\(\chi\) 从 0.1 到 1）里两条虚线都离黑线很远。" loading="lazy"><figcaption class="small">横轴是接触区大小 ÷ 层厚 \(\chi\)，往右层越薄；纵轴是能量 ÷ Hertz，两个轴都取对数。黑线是有限元算的真实能量（刚球压粘在刚性底座上的层）。蓝色虚线是 Hertz，在左端很厚时和黑线重合；红色虚线是薄层公式，在右端很薄时和黑线重合。灰色一段（\(\chi\) 从 0.1 到 1）里两条虚线都离黑线很远。</figcaption></figure>
 <p>两头各有一个公式精确，中间两个都差约 30%。这才是网络真正有东西可学的地方：两头用精确公式钉住，网络学中间怎么接过去。</p>
 <h3 id="w5-3">统一的结构：二维弹簧床 + 相互作用</h3>
 
@@ -771,8 +763,8 @@ html.annot-on #annot-capture { display: block; }
 
 <p>还没训练网络，只验证了物理部分对不对、快不快：</p>
 <ul>
-<li><strong>准：</strong> 有层厚时，在两个公式都差几十个百分点的中间位置（\(\chi=1\)），用精确层核的一维版本和有限元相比，粘住底座时只差 0.0002%，能滑的底座差 0.04%。</li>
-<li><strong>快：</strong> 二维方格铺 16×16 已经够准（球误差 0.19%），GPU 上每个接触区 54 µs，和现在的骨架（26 µs）同一量级（两者都按双精度计）。</li>
+<li><strong>准：</strong> 有层厚时，在两个公式都差几十个百分点的中间位置（\(\chi=1\)），用精确层核的一维版本和有限元只差不到 0.05%。</li>
+<li><strong>快：</strong> 二维方格铺 16×16 已经够准（球误差 0.19%），GPU 上每个接触区 54 µs，和现在的骨架（26 µs）同一量级。</li>
 <li><strong>难点：</strong> 斜压压得很浅时接触区是一条很窄的月牙，需要局部加密格子。</li>
 </ul></section>
 <section id="w6"><h2>想讨论的</h2>
